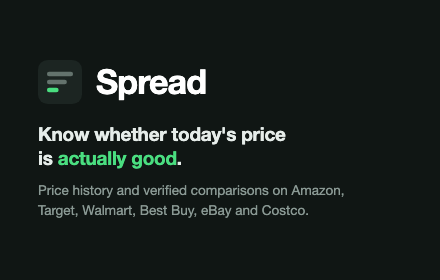
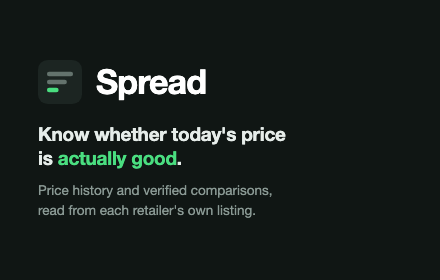
Name each retailer once in the listing copy
Rejected for keyword spam. The six retailer names appeared twice in the
description -- once inside a sentence and again as a standalone "supported
retailers" list -- and a repeated brand-name list is the pattern the policy
targets.

Each is now named once, in a sentence that tells a user where the extension
runs, which is the only reason to name them at all. The promotional tile
listed them too; promotional images fall under the same policy, so that copy
now describes what the extension does instead.

Changed region(s): [[0.0886, 0.7143, 0.7091, 0.7714], [0.6205, 0.6571, 0.7977, 0.7143]]

diff --git a/brand/promo-440x280.html b/brand/promo-440x280.html
@@ -21,5 +21,5 @@
     <span class="name">Spread</span>
   </div>
   <div class="line">Know whether today's price<br>is <span class="good">actually good</span>.</div>
-  <div class="sub">Price history and verified comparisons on Amazon,<br>Target, Walmart, Best Buy, eBay and Costco.</div>
+  <div class="sub">Price history and verified comparisons,<br>read from each retailer's own listing.</div>
 </div>

diff --git a/docs/PUBLISHING.md b/docs/PUBLISHING.md
@@ -46,19 +46,30 @@ Know whether today's price is actually good. Spread tracks price history on the 
 
 **Detailed description:**
 
+> Rejected once for keyword spam: the six retailer names appeared twice, once
+> inside a sentence and again as a standalone list. Google reads a repeated
+> brand-name list as stuffing. They are now named exactly once, in a sentence
+> that explains where the extension runs. Do not reintroduce a "supported
+> retailers" block.
+
 ```
 Spread tells you whether the price in front of you is actually a good one.
 
-Open a product page at Amazon, Target, Walmart, Best Buy, eBay or Costco and Spread
-quietly records what it costs. Come back later and it tells you whether the price
-moved — "Lowest price in 23 days", or "$50 above the low". When it can confirm the
-same product cheaper somewhere else, it tells you that too.
+Open a product page and Spread quietly records what it costs. Come back later and
+it tells you whether the price moved — "Lowest price in 23 days", or "$50 above the
+low". When it can confirm the same product cheaper somewhere else, it tells you that
+too.
+
+WHERE IT WORKS
+
+Spread runs on product pages at six major US retailers: Amazon, Target, Walmart,
+Best Buy, eBay and Costco. It cannot run anywhere else.
 
 WHAT MAKES IT DIFFERENT
 
 Spread will not show you a price it cannot stand behind. Every number it quotes was
 read from the page it links to — that retailer's own listing, not a search result or
-a cached figure. When a price cannot be confirmed, Spread names the retailer and says
+a cached figure. When a price cannot be confirmed, Spread names the store and says
 so instead of guessing.
 
 That means you will sometimes see fewer results than other comparison tools show you.
@@ -83,18 +94,14 @@ No account. No sign-up. No tracking. No ads.
 
 On supported product pages, Spread sends that product's title and price to its own
 service so the price joins the product's history. What gets stored is a fact about the
-product — "this cost $328 at Best Buy at this time" — with no record of who saw it.
+product — "this cost $328 at this store at this time" — with no record of who saw it.
 Nothing you view on any other website is ever sent, because the extension cannot run
 anywhere else.
 
 Full policy: https://jamespost1.github.io/Spread/privacy.html
 
-SUPPORTED RETAILERS
-
-Amazon · Target · Walmart · Best Buy · eBay · Costco
-
-Spread is open source. Everything described here can be verified by reading the code:
-https://github.com/jamespost1/Spread
+Spread is open source under the AGPL. Everything described here can be verified by
+reading the code: https://github.com/jamespost1/Spread
 ```
 
 ### Review form answers — paste as-is
